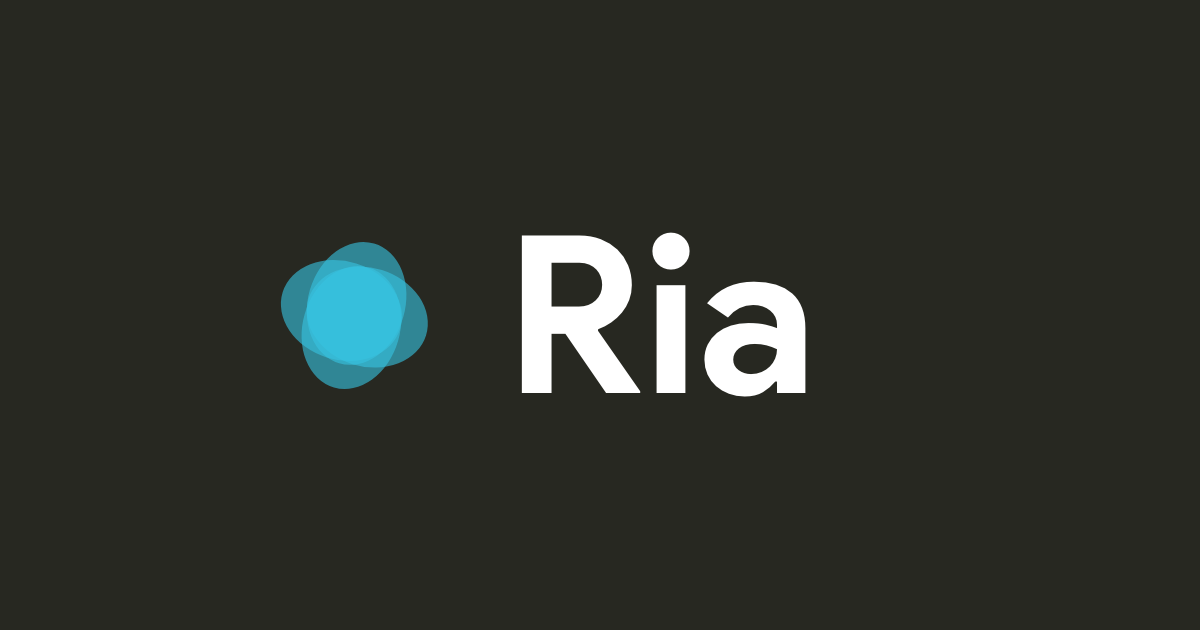
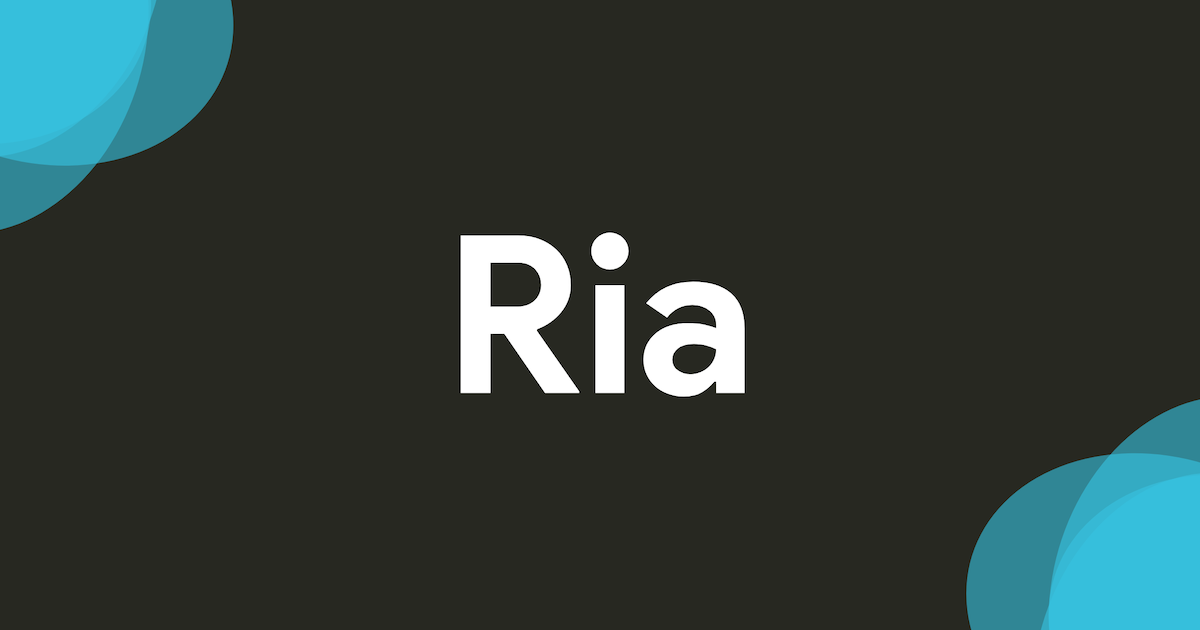
OGP画像更新

Changed region(s): [[0.2158, 0.3619, 0.6783, 0.6333], [0.8017, 0.6333, 1.0, 1.0], [0.0, 0.0, 0.2158, 0.3619]]

diff --git a/pages/article/[slag].tsx b/pages/article/[slag].tsx
@@ -8,7 +8,7 @@ import { Meta } from '~/components/atoms'
 
 type Props = { article: Article }
 const Article: React.FC<Props> = ({ article }) => {
-  const image = `https://res.cloudinary.com/dvtfyasu2/image/upload/l_text:Sawarabi%20Gothic_50:${article.title},co_rgb:f1f2ef,w_600,c_fit/v1592197831/ntBQEcgB_xdsefh.jpg`
+  const image = `https://res.cloudinary.com/dvtfyasu2/image/upload/l_text:Sawarabi%20Gothic_50:${article.title},co_rgb:f1f2ef,w_600,c_fit/v1592397543/article_card.png`
 
   const meta = {
     title: article.title,
